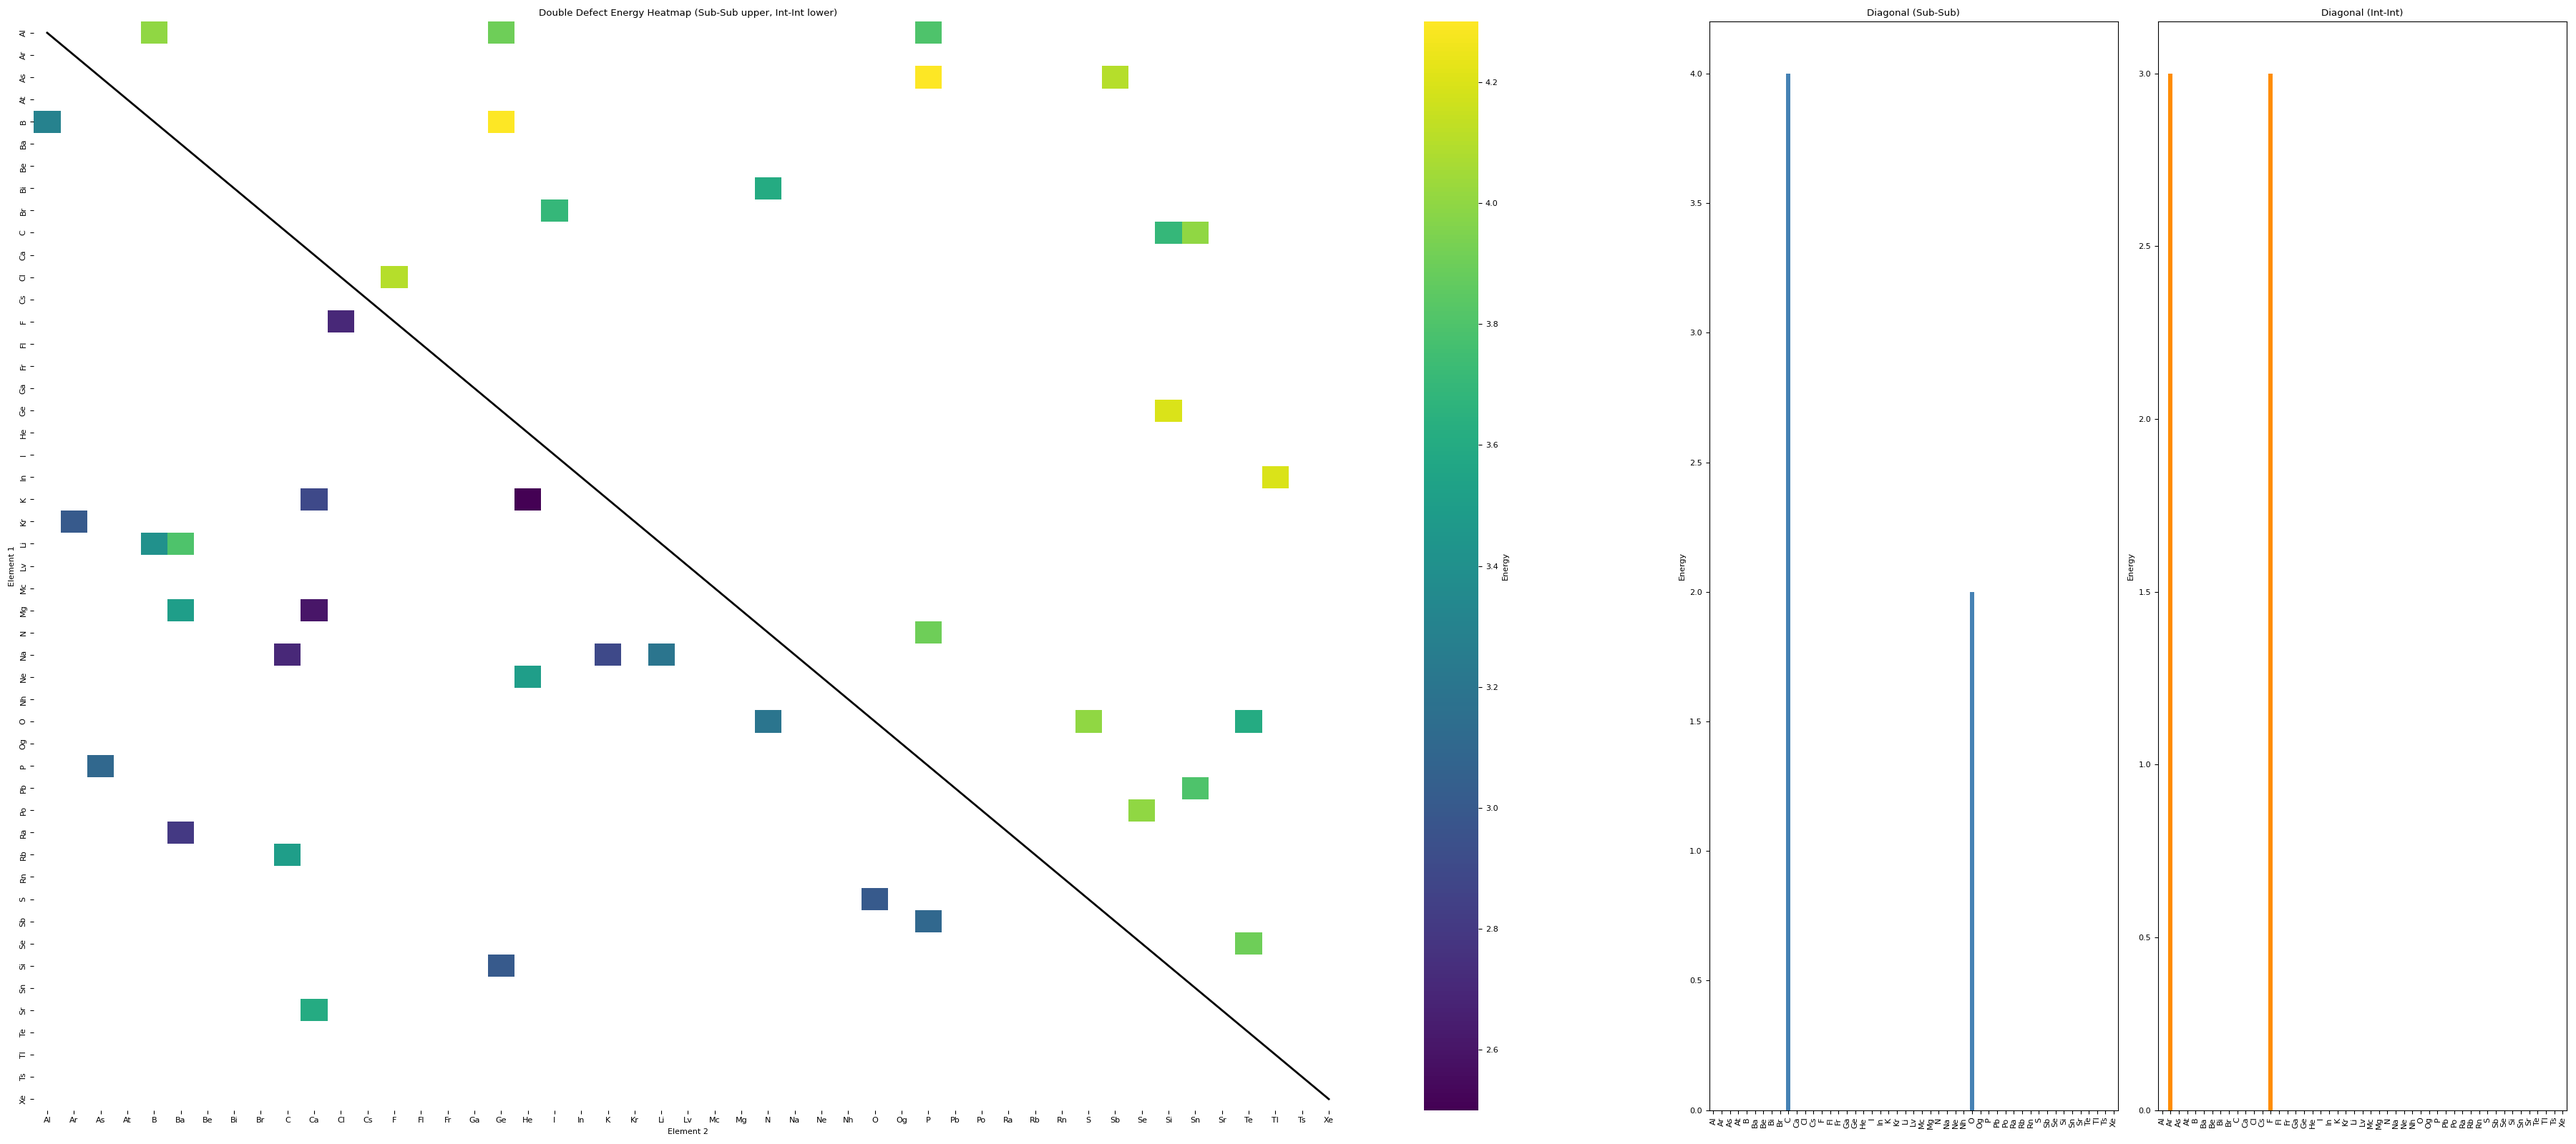
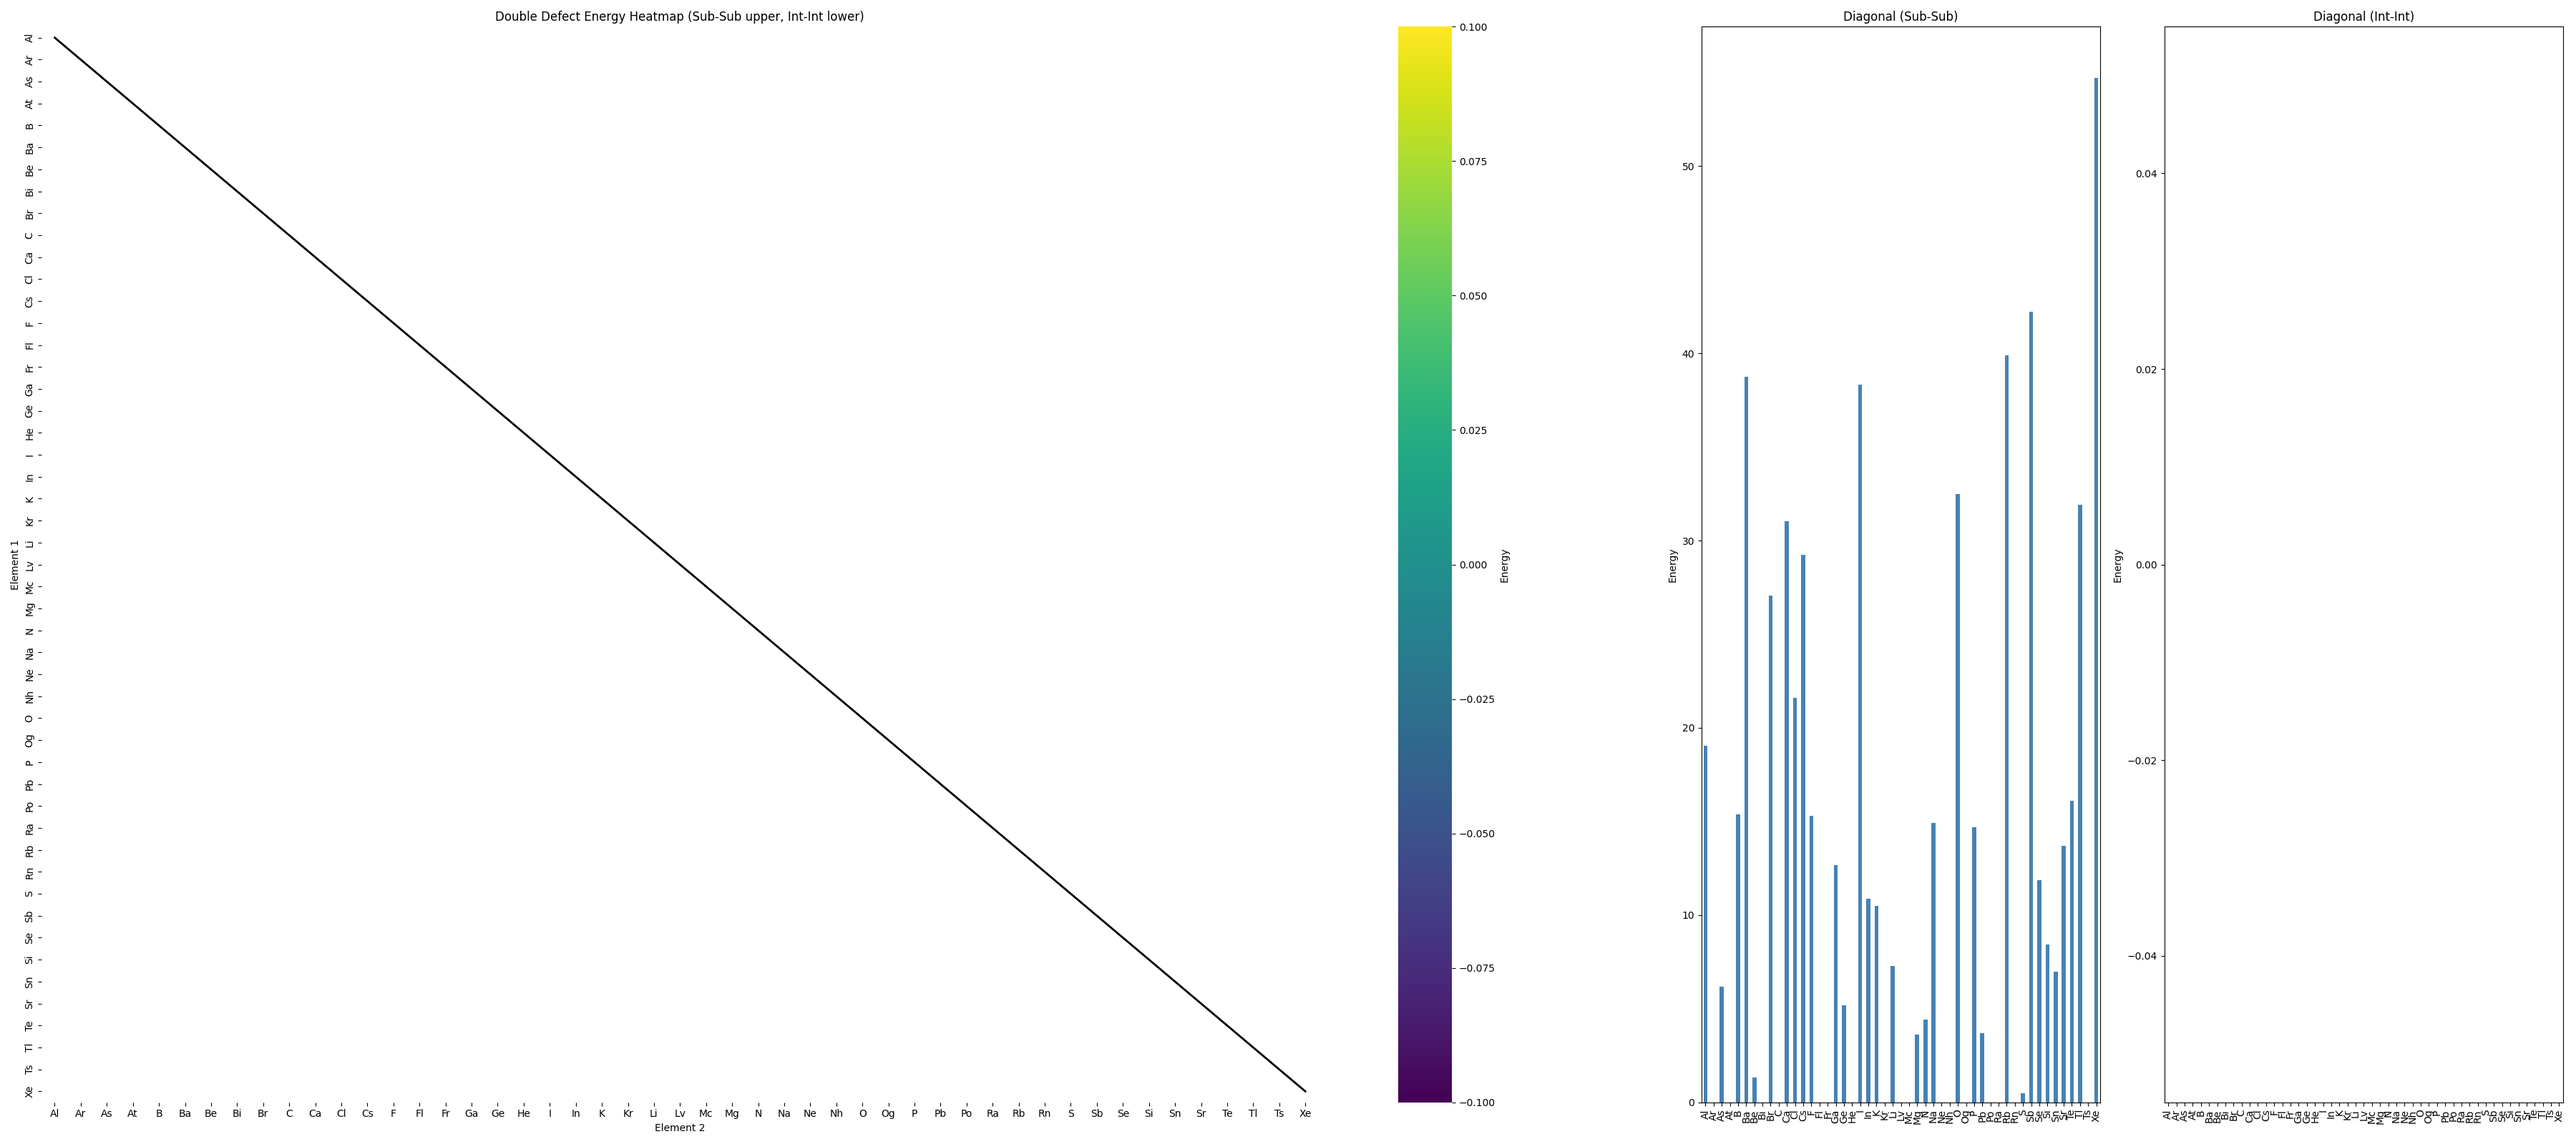
Now it properly reads from DB

diff --git a/src/mdse/visualizeDB/vis_plots.py b/src/mdse/visualizeDB/vis_plots.py
@@ -82,6 +82,9 @@ def single_defect_plot(plot_name, plot_data, sim_data):
                                      "avg_a": []},
      "substitution" : {"element" : [], "energy" : [], "vacancy" : [], "avg_a" : []}}
     logger.debug("Start to loop trough simulations")
+
+    how_many_data_points = 0
+
     for sim in sim_data:
         #Pick out single defect
         amount = sim.get("DefectInfo")["defect_size"]
@@ -95,30 +98,35 @@ def single_defect_plot(plot_name, plot_data, sim_data):
             types = def_type.split(":")
             cat1, el1 = get_defect_cat(types[0])
             cat2, el2 = get_defect_cat(types[1])
+            if cat1 == cat2 == "vacancy": #So skip this edge case in this plot
+                continue
             #One vacant, one either sub or inter
             if cat1 == "vacancy":
                 defect = sorted_data.get(cat2)
                 defect["element"].append(el2)
-                defect["energy"].append(sim.get("formation_energy"))
+                defect["energy"].append(sim.get("delta_E"))
                 defect["avg_a"].append(sim.get("avg_a"))
                 defect["vacancy"].append(True)
+                how_many_data_points+=1
                 continue
 
             if cat2 == "vacancy":
                 defect = sorted_data.get(cat1)
                 defect["element"].append(el1)
-                defect["energy"].append(sim.get("formation_energy"))
+                defect["energy"].append(sim.get("delta_E"))
                 defect["avg_a"].append(sim.get("avg_a"))
                 defect["vacancy"].append(True)
+                how_many_data_points+=1
                 continue
 
         if amount == 1 and not vacant: #A single defect. Skip edge case of single vacant
             cat, el = get_defect_cat(def_type)
             defect = sorted_data.get(cat)
             defect["element"].append(el)
-            defect["energy"].append(sim.get("formation_energy"))
+            defect["energy"].append(sim.get("delta_E"))
             defect["avg_a"].append(sim.get("avg_a"))
             defect["vacancy"].append(False)
+            how_many_data_points+=1
             continue
 
     logger.debug("Done looping over simulations.")
@@ -128,7 +136,7 @@ def single_defect_plot(plot_name, plot_data, sim_data):
     #fig.tight_layout()
 
     #Fix axis of all subplots.
-
+    print(how_many_data_points)
     avg = plot_data.get("average")
     fix_y = plot_data.get("fix_y")
 
@@ -363,7 +371,7 @@ def heatmap_plot(plot_name,plot_data,sim_data):
     #What to plot. Get from sim_data later
     prop1 = plot_data.get("x")
     prop2 = plot_data.get("y")
-
+    how_many_points = 0
     if not prop1 or not prop2:
         raise ValueError("Config is missing x or y field in config file")
 
@@ -383,20 +391,25 @@ def heatmap_plot(plot_name,plot_data,sim_data):
                 el_sorted = sorted([el1, el2])
                 data_points.append({"interstitial1" : el_sorted[0],
                                     "interstitial2" : el_sorted[1],
-                                    "Energy" : sim.get("formation_energy")})
+                                    "Energy" : sim.get("delta_E")})
+                how_many_points+=1
+                continue
 
             if cat1 == "substitution" and cat2 == "substitution":
                 el_sorted = sorted([el1, el2])
                 data_points.append({"substitution1" : el_sorted[0],
                                     "substitution2" : el_sorted[1],
-                                    "Energy" : sim.get("formation_energy")})
-
+                                    "Energy" : sim.get("delta_E")})
+                how_many_points+=1
+                continue
+            
             continue
 
         if {cat1,cat2} == {"substitution", "interstitial"}:
             data_points.append({cat1 : el1,
                                 cat2 : el2,
-                                "Energy" : sim.get("formation_energy")})
+                                "Energy" : sim.get("delta_E")})
+            how_many_points+=1
             continue
 
 
@@ -414,7 +427,7 @@ def heatmap_plot(plot_name,plot_data,sim_data):
     dataframe = pd.DataFrame(data_points)
     #heatmap_data = dataframe.pivot(index="interstitial",
     #columns="substitution", values="Energy")
-
+    print(how_many_points)
     if prop1 == prop2:
         #So a single heatmap, that combines inter-inter with sub-sub
 
@@ -422,11 +435,16 @@ def heatmap_plot(plot_name,plot_data,sim_data):
                             if "substitution" in c or c=="Energy"]]
         df_int = dataframe[[c for c in dataframe.columns
                             if "interstitial" in c or c=="Energy"]]
-
-        heatmap_sub = df_sub.groupby(['substitution1',
-                                      'substitution2'])['Energy'].mean().unstack()
-        heatmap_int = df_int.groupby(['interstitial1',
-                                      'interstitial2'])['Energy'].mean().unstack()
+        if "interstitial1" in df_int and "interstitial2" in df_int:
+            heatmap_int = df_int.groupby(['interstitial1',
+                            'interstitial2'])['Energy'].mean().unstack()
+        else:
+            heatmap_int = pd.DataFrame(index=all_elements, columns=all_elements)
+        if "substitution1" in df_sub and "substitution2" in df_sub:
+            heatmap_sub = df_sub.groupby(['substitution1',
+                                        'substitution2'])['Energy'].mean().unstack()
+        else:
+            heatmap_sub = pd.DataFrame(index=all_elements, columns=all_elements)
 
         #Symmetrize so both halves are filled
         heatmap_sub = symmetrize(heatmap_sub).reindex(index=all_elements,
@@ -493,7 +511,6 @@ def heatmap_plot(plot_name,plot_data,sim_data):
 
     else:
         #If inter-sub
-
         heatmap_data = dataframe.groupby(["interstitial",
                                           "substitution"])["Energy"].mean().unstack()
         x_label = "interstitial"

diff --git a/src/mdse/visualizeDB/read_dataDB.py b/src/mdse/visualizeDB/read_dataDB.py
@@ -59,12 +59,60 @@ def read_data(config_data):
         db_name = config_data.get("database")
         table_name = config_data.get("table")
 
-        if not uri or not db_name or not table_name:
-            raise RuntimeError("Config for mongo lacks uri or database or table field")
+        #if not uri or not db_name or not table_name:
+        #    raise RuntimeError("Config for mongo lacks uri or database or table field")
 
         client = MongoClient(uri)
-        db = client[db_name]
-        table = db[table_name]
+        db = client["materials_db"]
+
+        DFT_data = db["DFT_data"]
+        MACE_data = db["MACE_results"]
+
+        final_data = [] #[{id: 1, ...}, {id: 2,....}]
+
+        # Get all documents
+        all_mace_entries = []
+        for doc in MACE_data.find():
+            doc["_id"] = str(doc["_id"])  # optional, to make JSON-friendly
+            all_mace_entries.append(doc)
+
+        for mace_entry in all_mace_entries:
+            def_id = mace_entry["defect_key"]
+
+            dft_entry = DFT_data.find_one({"defect_key" : def_id})
+            #Will get multiple entries, because diferent spins.
+        
+            if dft_entry:
+                # Extract fields we need
+                mace_entry["DFT_defect_formation_energy"] = dft_entry.get("defect_formation_energy")
+                mace_entry["DefectInfo"] = {"defect_type" : dft_entry.get("defect_type")}
+                mace_entry["DefectInfo"]["spin"] = dft_entry.get("spin")
+            else:
+                print("SOMETINH BAD HAPPENED!")
+                
+        temp = True
+        for entry in all_mace_entries:
+            #Calculate energy diff, and fix format
+            entry["delta_E"] = abs(entry["DFT_defect_formation_energy"] - entry["formation_energy"])
+
+            def_type = entry["DefectInfo"]["defect_type"]
+
+            entry["DefectInfo"]["defect_size"] = get_def_size(def_type)
+            entry["DefectInfo"]["vacancy"] = get_vacancy(def_type)
+            if temp:
+                entry["avg_a"] = 1
+                temp = False
+            else:
+                entry["avg_a"] = 2
+                temp = True
+
+        print(f"Found {len(all_mace_entries)} entries")
+        return all_mace_entries
+     
+
+
+        #db = client[db_name]
+        #table = db[table_name]
 
         #Needs to return [ {sim_id : 1, energy : 2},  {sim_id : 2, energy : 4}] so
         #list of dictionaries.
@@ -75,3 +123,18 @@ def read_data(config_data):
 
         raise RuntimeError("Not implemented for mongoDB yet")
 
+
+
+def get_vacancy(def_type):
+    """Checks if there is a vacancy. Returns nr of vac"""
+
+    if "Vac_" in def_type:
+        return 1
+    return 0
+
+def get_def_size(def_type):
+    """Gets number of defects"""
+
+    if ":" in def_type:
+        return 2
+    return 1

diff --git a/src/mdse/visualizeDB/make_plot.py b/src/mdse/visualizeDB/make_plot.py
@@ -25,16 +25,16 @@ def make_plot(plot_name, plot_info, sim_data):
     """
 
 
-    try:
-        plot_func = valid_plot(plot_info.get("type"))
+    #try:
+    plot_func = valid_plot(plot_info.get("type"))
 
-        plot_func(plot_name, plot_info,sim_data)
+    plot_func(plot_name, plot_info,sim_data)
 
 
 
-    except Exception as e:
-        print(f"Could not plot {plot_name} due to: {str(e)}")
-        logger.debug(f"Could not plot {plot_name} due to: {str(e)}")
+    #except Exception as e:
+        #print(f"Could not plot {plot_name} due to: {str(e)}")
+        #logger.debug(f"Could not plot {plot_name} due to: {str(e)}")
 
 
 def valid_plot(plot_type):

diff --git a/examples/visualizeDB_example/visDB_example.py b/examples/visualizeDB_example/visDB_example.py
@@ -9,7 +9,7 @@ from mdse.visualizeDB.run_visDB import run_visualize_db
 
 
 def main():
-    run_visualize_db("config_visDB_doping.yaml")
+    run_visualize_db("config_visDB_mongo.yaml")
 
 
 
